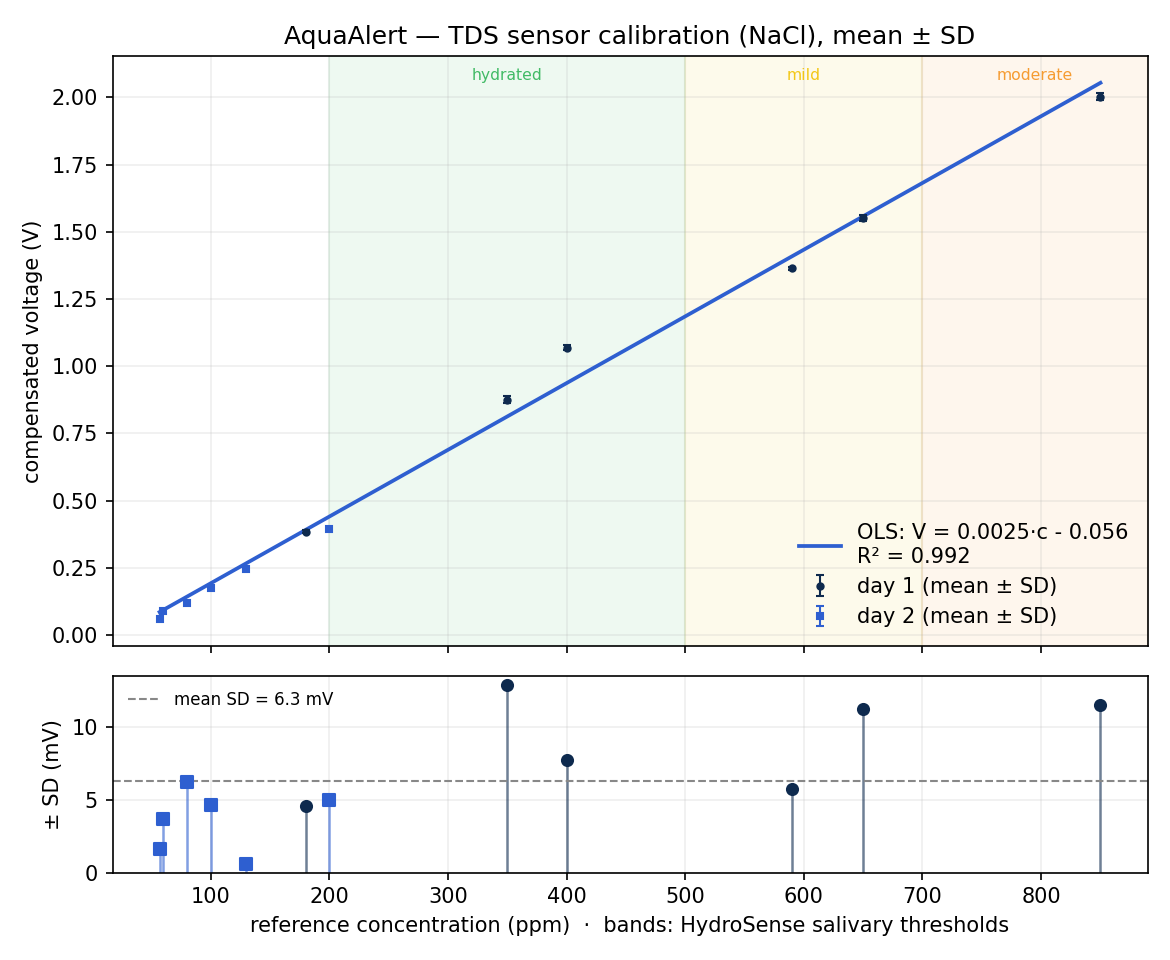
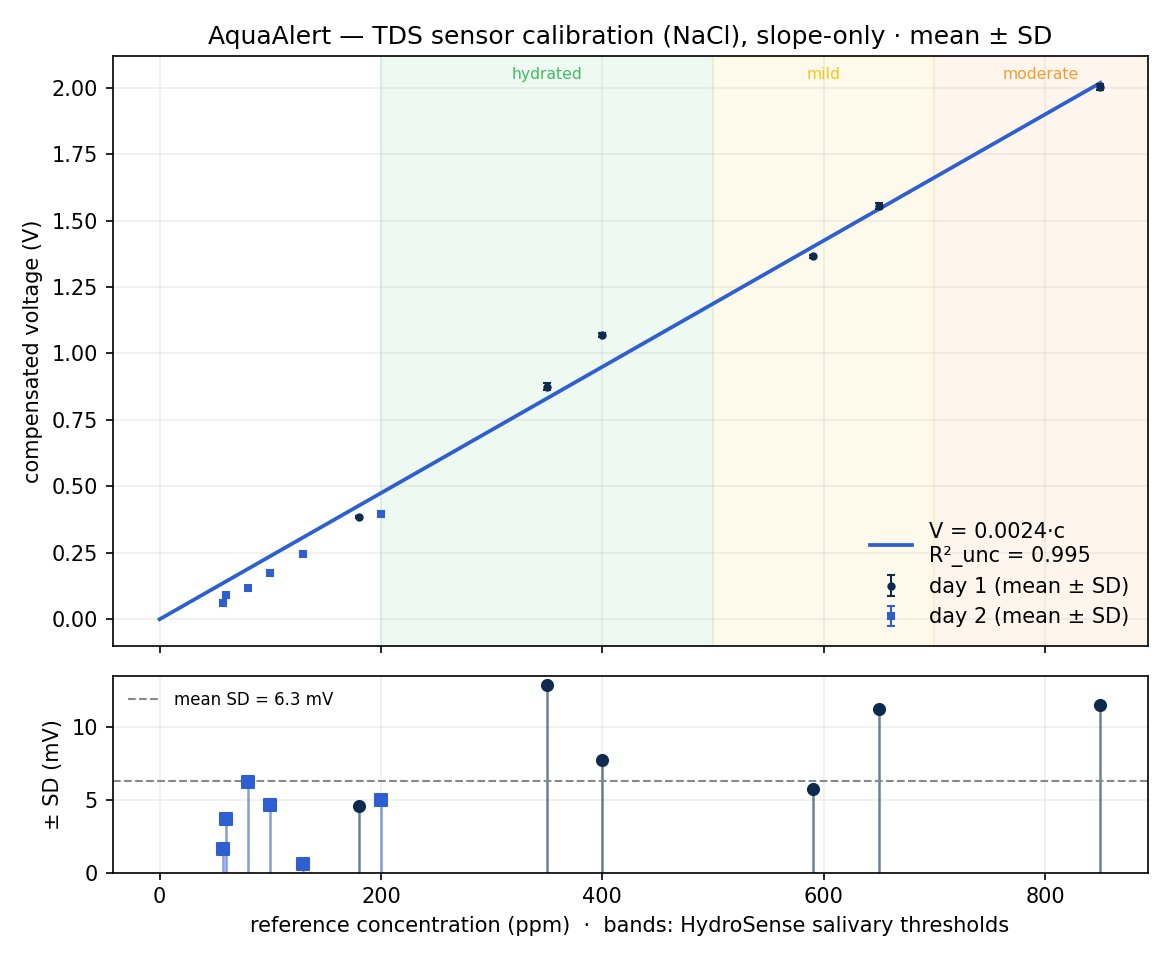
Make slope-only V = m*c the primary calibration model
- calibrate.py default fit is now LSQ through origin (m = 0.002374, R^2_unc 0.995)
- Use --with-intercept to overlay OLS for comparison; weighted variant also goes
  slope-only through origin (1/c^2 weights)
- Firmware CAL_M and live.html footer updated to match (0.002374)

diff --git a/live.html b/live.html
@@ -108,7 +108,7 @@
 <div class="footer">
   Antes de encender el ESP32, sumerge el sensor en agua limpia: durante los primeros 5 s
   el LED parpadea mientras hace el auto-tare (define el cero físico).<br>
-  Calibración: pendiente 0,0025 V/ppm &nbsp;·&nbsp; c = (V − V<sub>blank</sub>) / 0,0025
+  Calibración: V = 0,002374·c &nbsp;·&nbsp; c = (V − V<sub>blank</sub>) / 0,002374
 </div>
 
 <script src="https://cdn.jsdelivr.net/npm/chart.js@4.4.0/dist/chart.umd.min.js"></script>

diff --git a/analysis/calibrate.py b/analysis/calibrate.py
@@ -21,12 +21,18 @@ concentration where it is actually visible. The optional `in_fit` column
 (1/0) excludes saturated points from the linear fit while still letting them
 be plotted. Also accepts `concentration_g_L`.
 
-Fits V = m·c + b over the in-fit measurements, reports R², sensitivity and
-repeatability (mean SD / CV), and saves the curve to ../docs for the report.
+Default fit is *slope-only* through the origin (V = m·c), paired with the
+firmware's auto-tare so 0 ppm reads exactly 0 in the field. Pass
+`--with-intercept` to also overlay the OLS fit (V = m·c + b) for comparison.
+
+Reports R², sensitivity, repeatability (SD / CV), residual SD, LOD / LOQ,
+and saves the curve to ../docs for the report.
 
 Examples
 --------
-    python calibrate.py
+    python calibrate.py                       # slope-only (default)
+    python calibrate.py --with-intercept      # overlay OLS for comparison
+    python calibrate.py --weighted            # weighted slope-only (1/c²)
     python calibrate.py --error sem
     python calibrate.py --show-saturated
 """
@@ -78,9 +84,9 @@ def main() -> None:
     ap.add_argument("--weighted", action="store_true",
                     help="also fit weighted least squares (1/c^2 weights) and compare; "
                          "recommended here because the variance grows with concentration")
-    ap.add_argument("--through-origin", action="store_true",
-                    help="also fit a least-squares line forced through (0,0) and compare "
-                         "(physically: V=0 at c=0 ppm in deionised water)")
+    ap.add_argument("--with-intercept", action="store_true",
+                    help="also fit an ordinary least-squares line with intercept and "
+                         "overlay it for comparison against the default slope-only fit")
     ap.add_argument("--show-saturated", action="store_true",
                     help="also plot the excluded saturated points")
     ap.add_argument("--no-bands", action="store_true",
@@ -126,113 +132,100 @@ def main() -> None:
     if len(c) < 2:
         sys.exit("Need at least two in-fit measurements to fit a line.")
 
-    m, b = np.polyfit(c, v, 1)            # V = m*c + b
-    pred = m * c + b
-    ss_res = float(np.sum((v - pred) ** 2))
-    ss_tot = float(np.sum((v - v.mean()) ** 2))
-    r2 = 1 - ss_res / ss_tot if ss_tot else float("nan")
-
+    n = len(c)
     fit_agg = aggregate(fit_df)
     cv = (fit_agg["std"] / fit_agg["mean"]).replace([np.inf, -np.inf], np.nan) * 100
-
-    sign = "-" if b < 0 else "+"
     elabel = ERR_LABEL[args.error]
-    print(f"Fit over {len(c)} measurements in {len(fit_agg)} solutions "
+
+    # --- PRIMARY FIT: slope-only through the origin (V = m·c) ---
+    # Pairs with the firmware's auto-tare so 0 ppm reads 0 in the field.
+    m0 = float(np.sum(c * v) / np.sum(c ** 2))                # closed-form LSQ thru (0,0)
+    ss_res0 = float(np.sum((v - m0 * c) ** 2))
+    r2_0 = 1.0 - ss_res0 / float(np.sum(v ** 2))              # uncentered R²
+    s_yx0 = float(np.sqrt(ss_res0 / (n - 1)))                 # 1 param -> df = n-1
+    s_m0 = float(np.sqrt(s_yx0 ** 2 / np.sum(c ** 2)))
+    s_x0_0 = float(s_yx0 / abs(m0) * np.sqrt(1.0 + 1.0 / n))
+    lod0, loq0 = 3.3 * s_yx0 / abs(m0), 10.0 * s_yx0 / abs(m0)
+    dofw = fit_agg["n"] - 1
+    s_pool = float(np.sqrt(np.sum(dofw * fit_agg["std"] ** 2) / np.sum(dofw)))
+
+    print(f"Slope-only fit over {n} measurements in {len(fit_agg)} solutions "
           f"({c.min():.0f}–{c.max():.0f} {unit}):")
-    print(f"  V = {m:.6f} * c {sign} {abs(b):.4f}     (c in {unit}, V in volts)")
-    print(f"  R²  = {r2:.4f}")
-    print(f"  sensitivity = {m * 1000:.3f} mV per {unit}")
+    print(f"  V = {m0:.6f} * c     (intercept forced to 0; tare handles the offset)")
+    print(f"  R²_uncentered = {r2_0:.4f}")
+    print(f"  sensitivity   = {m0 * 1000:.3f} mV per {unit}")
     print(f"  repeatability: mean SD = {fit_agg['std'].mean() * 1000:.1f} mV, "
           f"mean CV = {cv.mean():.1f} %")
     print(f"  error bars shown = {elabel} (range {fit_agg['err'].min()*1000:.1f}"
           f"–{fit_agg['err'].max()*1000:.1f} mV)")
-    if m:
-        print(f"  inverse: c = (V - {b:.4f}) / {m:.6f}")
+    print(f"  inverse: c = (V - V_blank) / {m0:.6f}     (V_blank measured at boot)")
     if len(excl_df):
         lo = excl_df[conc_col].min()
         print(f"  excluded {len(excl_df)} saturated measurements (>= {lo:.0f} {unit})")
-
-    # --- regression statistics (Miller & Miller; LibreTexts/Harvey 5.4) ---
-    n = len(c)
-    Sxx = float(np.sum((c - c.mean()) ** 2))
-    s_yx = float(np.sqrt(ss_res / (n - 2)))          # residual SD about the line
-    s_m = float(np.sqrt(s_yx ** 2 / Sxx))            # SD of slope
-    s_b = float(s_yx * np.sqrt(np.sum(c ** 2) / (n * Sxx)))   # SD of intercept
-    s_x0 = float((s_yx / abs(m)) * np.sqrt(1.0 + 1.0 / n))    # ±conc, single reading
-    dofw = fit_agg["n"] - 1
-    s_pool = float(np.sqrt(np.sum(dofw * fit_agg["std"] ** 2) / np.sum(dofw)))
-    lod, loq = 3.3 * s_yx / abs(m), 10.0 * s_yx / abs(m)
     print("  --- regression statistics ---")
-    print(f"  residual SD s(y/x) = {s_yx*1000:.1f} mV  (df = {n-2})")
+    print(f"  residual SD s(y/x) = {s_yx0*1000:.1f} mV  (df = {n-1})")
     print(f"  pooled replicate SD = {s_pool*1000:.1f} mV")
-    print(f"  slope     m = {m:.6f} ± {s_m:.6f} V/{unit}")
-    t_b = b / s_b
-    verdict = ("intercept ≠ 0 (use OLS)" if abs(t_b) > 2 else
-               "intercept ≈ 0 (through-origin is justified)")
-    print(f"  intercept b = {b:.4f} ± {s_b:.4f} V   "
-          f"[t = {t_b:.2f}, df = {n-2}  →  {verdict}]")
-    print(f"  prediction uncertainty s_x0 ≈ ±{s_x0:.0f} {unit} per single reading")
-    print(f"  LOD = {lod:.0f} {unit},  LOQ = {loq:.0f} {unit}")
+    print(f"  slope m = {m0:.6f} ± {s_m0:.6f} V/{unit}")
+    print(f"  prediction uncertainty s_x0 ≈ ±{s_x0_0:.0f} {unit} per single reading")
+    print(f"  LOD = {lod0:.0f} {unit},  LOQ = {loq0:.0f} {unit}")
 
-    # --- regression forced through the origin (intercept = 0) ---
-    m0 = None
-    if args.through_origin:
-        m0 = float(np.sum(c * v) / np.sum(c ** 2))           # closed-form LSQ thru (0,0)
-        ss_res0 = float(np.sum((v - m0 * c) ** 2))
-        r2_0 = 1.0 - ss_res0 / float(np.sum(v ** 2))         # uncentered R²
-        s_yx0 = float(np.sqrt(ss_res0 / (n - 1)))            # only 1 param -> df = n-1
-        s_m0 = float(np.sqrt(s_yx0 ** 2 / np.sum(c ** 2)))
-        s_x0_zo = float(s_yx0 / abs(m0) * np.sqrt(1.0 + 1.0 / n))
-        lod0, loq0 = 3.3 * s_yx0 / abs(m0), 10.0 * s_yx0 / abs(m0)
-        # predicted concentration at the lowest standard with each fit
-        c_low = c.min()
-        v_low = v[c == c_low].mean()
-        chat_ols = (v_low - b) / m
-        chat_zo = v_low / m0
-        print("  --- through-origin (intercept forced to 0) ---")
-        print(f"  V = {m0:.6f} * c     (no intercept)")
-        print(f"  R²_uncentered      = {r2_0:.4f}")
-        print(f"  residual SD s(y/x) = {s_yx0*1000:.1f} mV  (df = {n-1})")
-        print(f"  slope m = {m0:.6f} ± {s_m0:.6f} V/{unit}")
-        print(f"  prediction uncertainty s_x0 ≈ ±{s_x0_zo:.0f} {unit} per single reading")
-        print(f"  LOD = {lod0:.0f} {unit},  LOQ = {loq0:.0f} {unit}")
-        print(f"  back-calc at lowest std ({c_low:.0f} {unit}): "
-              f"OLS={chat_ols:.0f}, thru0={chat_zo:.0f} {unit}")
+    # --- OPTIONAL OLS COMPARISON (V = m·c + b) ---
+    m = b = r2 = s_yx = s_m = s_b = s_x0 = sign = None
+    if args.with_intercept:
+        m, b = (float(x) for x in np.polyfit(c, v, 1))
+        ss_res = float(np.sum((v - (m * c + b)) ** 2))
+        ss_tot = float(np.sum((v - v.mean()) ** 2))
+        r2 = 1 - ss_res / ss_tot if ss_tot else float("nan")
+        Sxx = float(np.sum((c - c.mean()) ** 2))
+        s_yx = float(np.sqrt(ss_res / (n - 2)))
+        s_m = float(np.sqrt(s_yx ** 2 / Sxx))
+        s_b = float(s_yx * np.sqrt(np.sum(c ** 2) / (n * Sxx)))
+        s_x0 = float((s_yx / abs(m)) * np.sqrt(1.0 + 1.0 / n))
+        sign = "-" if b < 0 else "+"
+        t_b = b / s_b
+        verdict = ("OLS preferred (intercept is real)" if abs(t_b) > 2
+                   else "slope-only is justified (intercept ≈ 0)")
+        print("  --- OLS comparison (with intercept) ---")
+        print(f"  V = {m:.6f} * c {sign} {abs(b):.4f}")
+        print(f"  R² = {r2:.4f},  s(y/x) = {s_yx*1000:.1f} mV  (df = {n-2})")
+        print(f"  slope     m = {m:.6f} ± {s_m:.6f} V/{unit}")
+        print(f"  intercept b = {b:.4f} ± {s_b:.4f} V   "
+              f"[t = {t_b:.2f}, df = {n-2}  →  {verdict}]")
+        print(f"  prediction uncertainty s_x0 ≈ ±{s_x0:.0f} {unit} per single reading")
 
-    # --- weighted least squares (1/c^2): better for heteroscedastic data ---
-    mw = bw = sgnw = None
+    # --- weighted least squares thru origin (1/c^2): better for heteroscedasticity ---
+    mw0 = None
     if args.weighted:
-        w = 1.0 / c                                  # polyfit minimises (w*resid)^2
-        mw, bw = (float(x) for x in np.polyfit(c, v, 1, w=w))
+        w = 1.0 / c                                          # polyfit minimises (w*r)^2
+        # weighted slope thru origin: m = Σ w² c v / Σ w² c²
+        mw0 = float(np.sum((w ** 2) * c * v) / np.sum((w ** 2) * c ** 2))
 
-        def conc_err(mm, bb):
-            pe = np.abs(((v - bb) / mm - c) / c) * 100
+        def conc_err_slope(mm):
+            pe = np.abs((v / mm - c) / c) * 100
             band = (c >= 200) & (c <= 500)
             return pe.mean(), (pe[band].mean() if band.any() else float("nan"))
 
-        u_all, u_hy = conc_err(m, b)
-        w_all, w_hy = conc_err(mw, bw)
-        sgnw = "-" if bw < 0 else "+"
-        print("  --- weighted (1/c²) vs ordinary least squares ---")
-        print(f"  weighted: V = {mw:.6f} * c {sgnw} {abs(bw):.4f}")
+        u_all, u_hy = conc_err_slope(m0)
+        w_all, w_hy = conc_err_slope(mw0)
+        print("  --- weighted slope-only (1/c²) vs unweighted slope-only ---")
+        print(f"  weighted: V = {mw0:.6f} * c")
         print(f"  mean |error| back-calculated concentration:")
-        print(f"      overall          OLS {u_all:4.1f} %  ->  WLS {w_all:4.1f} %")
-        print(f"      hydrated 200-500 OLS {u_hy:4.1f} %  ->  WLS {w_hy:4.1f} %")
+        print(f"      overall          OLS-0 {u_all:4.1f} %  ->  WLS-0 {w_all:4.1f} %")
+        print(f"      hydrated 200-500 OLS-0 {u_hy:4.1f} %  ->  WLS-0 {w_hy:4.1f} %")
 
     # two stacked panels: calibration curve (top) + spread in mV (bottom)
     fig, (ax, axb) = plt.subplots(2, 1, figsize=(7.8, 6.4), sharex=True,
                                   gridspec_kw={"height_ratios": [3, 1]})
 
-    xs = np.linspace(c.min(), c.max(), 100)
-    ax.plot(xs, m * xs + b, color="#2E5FD0", lw=1.8, zorder=3,
-            label=f"OLS: V = {m:.4f}·c {sign} {abs(b):.3f}\nR² = {r2:.3f}")
-    if args.weighted and mw is not None:
-        ax.plot(xs, mw * xs + bw, color="#E5402F", lw=1.4, ls="--", zorder=3,
-                label=f"WLS 1/c²: V = {mw:.4f}·c {sgnw} {abs(bw):.3f}")
-    if args.through_origin and m0 is not None:
-        xs0 = np.linspace(0, c.max(), 100)
-        ax.plot(xs0, m0 * xs0, color="#2FB457", lw=1.4, ls=":", zorder=3,
-                label=f"thru (0,0): V = {m0:.4f}·c")
+    xs = np.linspace(0, c.max(), 100)
+    ax.plot(xs, m0 * xs, color="#2E5FD0", lw=1.8, zorder=3,
+            label=f"V = {m0:.4f}·c\nR²_unc = {r2_0:.3f}")
+    if args.weighted and mw0 is not None:
+        ax.plot(xs, mw0 * xs, color="#E5402F", lw=1.4, ls="--", zorder=3,
+                label=f"WLS 1/c²: V = {mw0:.4f}·c")
+    if args.with_intercept and m is not None:
+        ax.plot(xs, m * xs + b, color="#6B7A99", lw=1.2, ls=":", zorder=3,
+                label=f"OLS comparison: V = {m:.4f}·c {sign} {abs(b):.3f}")
 
     markers = {1: ("#0E2A4E", "o"), 2: ("#2E5FD0", "s")}
 
@@ -277,7 +270,7 @@ def main() -> None:
         ax.set_xlim(x0, x1)
 
     ax.set_ylabel("compensated voltage (V)")
-    title = f"AquaAlert — TDS sensor calibration (NaCl), mean ± {elabel}"
+    title = f"AquaAlert — TDS sensor calibration (NaCl), slope-only · mean ± {elabel}"
     if mag != 1:
         title += f"  (error bars ×{mag:g})"
     ax.set_title(title)
